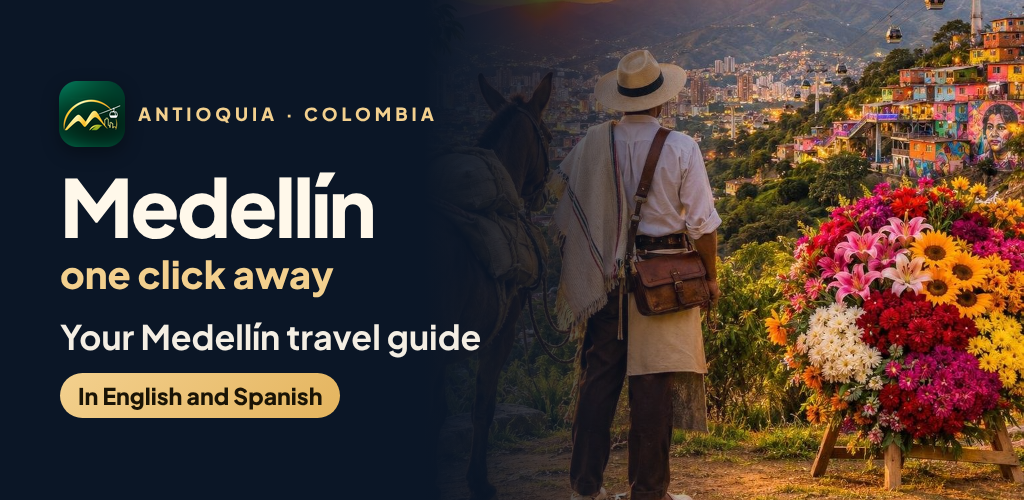
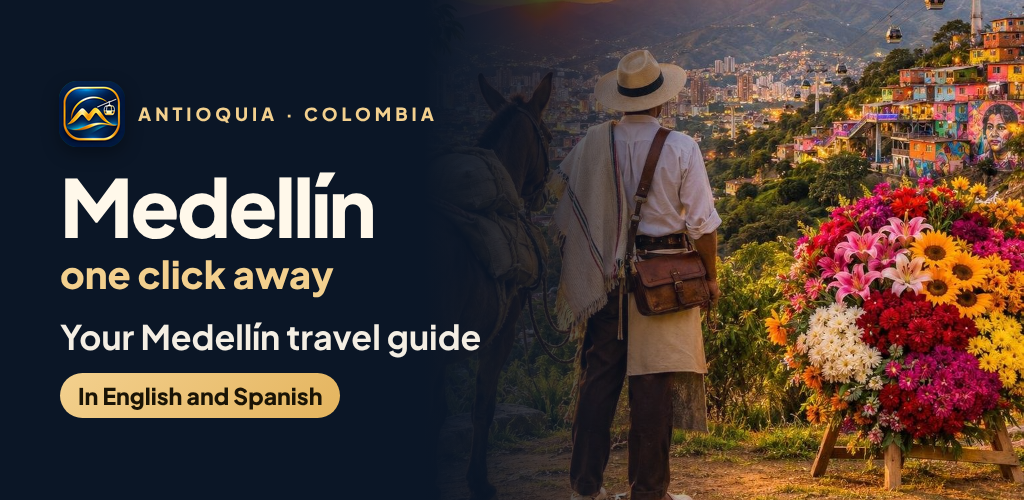
Icono oficial azul (opcion A) e imagen para compartir nueva (compartir3.jpg)
Claude-Session: https://claude.ai/code/session_016JRsqf2kPyDDH3ETr8ySyM

Changed region(s): [[0.0312, 0.15, 0.125, 0.3]]

diff --git a/app/index.html b/app/index.html
@@ -39,7 +39,7 @@ window.sentryOnLoad = function () {
 <meta name="description" content="Your Medellín travel app: viewpoints, towns, typical food, nightlife and hotels. English &amp; Spanish. By Mokea Digital LLC.">
 <meta property="og:title" content="Medellín one click away, in your pocket · Your travel app">
 <meta property="og:description" content="Viewpoints, heritage towns, typical food, nightlife and hotels. In English, with a Spanish option. By Mokea Digital LLC.">
-<meta property="og:image" content="https://medellin.mokeadigital.com/compartir2.jpg">
+<meta property="og:image" content="https://medellin.mokeadigital.com/compartir3.jpg">
 <meta property="og:image:width" content="1200">
 <meta property="og:image:height" content="630">
 <meta property="og:image:alt" content="Medellín a un clic: your Medellín guide, one click away">
